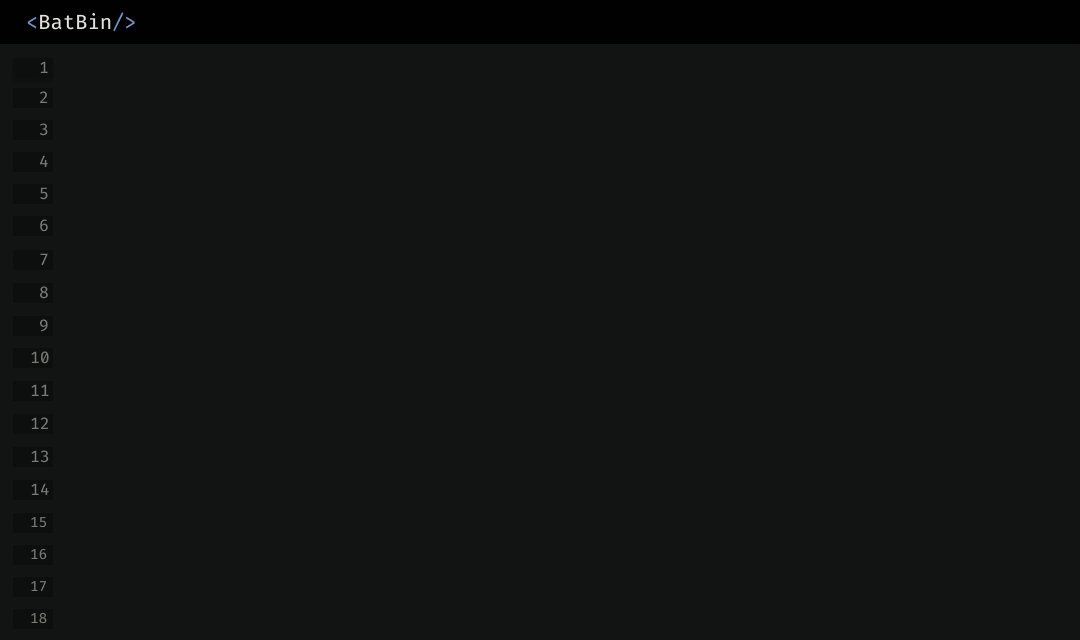
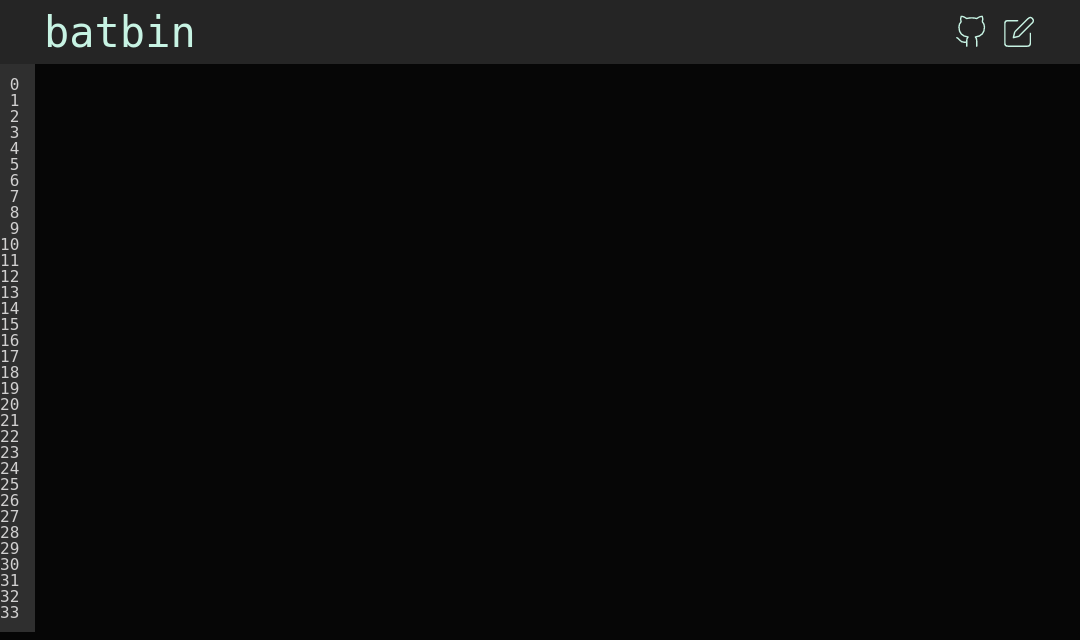
update editor.png for elm-frontend

Changed region(s): [[0.0, 0.0, 1.0, 1.0]]

diff --git a/src/syntax.rs b/src/syntax.rs
@@ -1,26 +1,34 @@
-use crate::{ipri, utils, app::AppState, consts::{MARGINS, FONT_SCALE}};
+use crate::{
+    app::AppState,
+    consts::{FONT_SCALE, MARGINS},
+    ipri, utils,
+};
+use image::Rgba;
 use syntect::easy::HighlightLines;
 use syntect::highlighting::Color;
-use image::Rgba;
 
 fn to_rgba8(color: &Color) -> Rgba<u8> {
     Rgba::<u8>([color.r, color.g, color.b, color.a])
 }
 
-pub fn render_preview(state: &AppState, src: &str, ext: Option<String>) -> Result<Vec<u8>, Box<dyn std::error::Error>> {
+pub fn render_preview(
+    state: &AppState,
+    src: &str,
+    ext: Option<String>,
+) -> Result<Vec<u8>, Box<dyn std::error::Error>> {
     let syntax = ext
         .map(|e| state.syntaxes.find_syntax_by_extension(&e))
         .flatten()
         .unwrap_or_else(|| &state.syntaxes.find_syntax_plain_text());
 
     let mut h = HighlightLines::new(syntax, &state.highlight_theme);
-    let lines = src.split_inclusive("\n").take(18);
+    let lines = src.split_inclusive("\n").take(33);
 
     let mut img2 = state.base_img.clone();
 
     for (i, line) in lines.enumerate() {
         let highlighted = h.highlight(&line, &state.syntaxes);
-        let mut w = 64;
+        let mut w = 40;
         for (style, chunk) in highlighted.iter() {
             let mut isspace = true; // whether the chunk is purely whitespace
             let mut sc = 0; // number of spaces in chunk
@@ -43,11 +51,19 @@ pub fn render_preview(state: &AppState, src: &str, ext: Option<String>) -> Resul
             }).collect();
 
             if isspace {
-                w += utils::space_width()*sc;
+                w += utils::space_width() * sc;
             } else {
-                w += ipri::draw_text_mut_w(&mut img2,  to_rgba8(&style.foreground), w, MARGINS[i], FONT_SCALE, &state.font, &c_string);
+                w += ipri::draw_text_mut_w(
+                    &mut img2,
+                    to_rgba8(&style.foreground),
+                    w,
+                    MARGINS[i],
+                    FONT_SCALE,
+                    &state.font,
+                    &c_string,
+                );
                 let trailing_spaces = c_s - cindx - 1;
-                w += utils::space_width()*trailing_spaces as i32; // rusttype doesn't handle trailing spaces :|
+                w += utils::space_width() * trailing_spaces as i32; // rusttype doesn't handle trailing spaces :|
             }
         }
     }

diff --git a/src/main.rs b/src/main.rs
@@ -8,8 +8,8 @@ mod utils;
 use rusttype::Font;
 use warp::Filter;
 
-use warp::http::header::{HeaderMap, HeaderValue};
 use std::env;
+use warp::http::header::{HeaderMap, HeaderValue};
 
 #[tokio::main]
 async fn main() {
@@ -23,10 +23,11 @@ async fn main() {
     png_header.insert("Content-type", HeaderValue::from_static("image/png"));
 
     let image = image::open(format!("{}/{}", arg, "editor.png"))
-                        .expect("ERR No template image found at provided path")
-                        .to_rgba8();
+        .expect("ERR No template image found at provided path")
+        .to_rgba8();
 
-    let font: Font<'static> = Font::try_from_bytes(include_bytes!("FiraCode-Retina.ttf") as &[u8]).unwrap();
+    let font: Font<'static> =
+        Font::try_from_bytes(include_bytes!("FiraCode-Retina.ttf") as &[u8]).unwrap();
 
     utils::init_state(arg, image, font);
 
@@ -34,16 +35,20 @@ async fn main() {
 
     let p = warp::path("p");
     let ap = utils::with_state()
-                        .and(warp::path::param())
-                        .and_then(handlers::root_handler);
+        .and(warp::path::param())
+        .and_then(handlers::root_handler);
 
     let pk = warp::path("pk");
     let apk = utils::with_state()
-                        .and(warp::path::param())
-                        .and(warp::path::param())
-                        .and_then(handlers::root_handler_known);
+        .and(warp::path::param())
+        .and(warp::path::param())
+        .and_then(handlers::root_handler_known);
 
-    warp::serve(p.and(ap).or(pk.and(apk)).with(warp::reply::with::headers(png_header)))
-        .run(([127, 0, 0, 1], 3030))
-        .await;
+    warp::serve(
+        p.and(ap)
+            .or(pk.and(apk))
+            .with(warp::reply::with::headers(png_header)),
+    )
+    .run(([127, 0, 0, 1], 3030))
+    .await;
 }

diff --git a/src/utils.rs b/src/utils.rs
@@ -1,33 +1,43 @@
 use crate::{app::AppState, consts};
-use std::ops::Deref;
-use image::{png::PngEncoder, ImageBuffer, Rgba, ImageError, Pixel};
+use image::{png::PngEncoder, ImageBuffer, ImageError, Pixel, Rgba};
 use once_cell::sync::OnceCell;
-use warp::Filter;
 use rusttype::{point, Font};
+use std::ops::Deref;
+use warp::Filter;
 
 static STATE: OnceCell<AppState> = OnceCell::new();
 static SPACE_WIDTH: OnceCell<i32> = OnceCell::new();
-
 
 // rusttype can't rasterize spaces :|
 fn init_space_width(font: &Font<'static>) {
     let offset = point(0.0, font.v_metrics(consts::FONT_SCALE).ascent);
     let layout = font.layout(" r", consts::FONT_SCALE, offset);
-    let r = font.glyph('r').scaled(consts::FONT_SCALE).positioned(offset).pixel_bounding_box().unwrap().max.x;
+    let r = font
+        .glyph('r')
+        .scaled(consts::FONT_SCALE)
+        .positioned(offset)
+        .pixel_bounding_box()
+        .unwrap()
+        .max
+        .x;
     let width = layout.last().unwrap().pixel_bounding_box().unwrap().max.x - r;
     SPACE_WIDTH.set(width).ok().expect("INVALID INIT STATE!!");
 }
 
 pub fn init_state(pastes: String, base_img: ImageBuffer<Rgba<u8>, Vec<u8>>, font: Font<'static>) {
     init_space_width(&font);
-    STATE.set(AppState::new(pastes, base_img, font)).ok().expect("INVALID INIT STATE!!");
+    STATE
+        .set(AppState::new(pastes, base_img, font))
+        .ok()
+        .expect("INVALID INIT STATE!!");
 }
 
 pub fn space_width() -> i32 {
     *SPACE_WIDTH.get().unwrap()
 }
 
-pub fn with_state() -> impl Filter<Extract = (&'static AppState,), Error = std::convert::Infallible> + Clone {
+pub fn with_state(
+) -> impl Filter<Extract = (&'static AppState,), Error = std::convert::Infallible> + Clone {
     warp::any().map(|| STATE.get().expect("AppState not initialized!!!"))
 }
 

diff --git a/src/handlers/mod.rs b/src/handlers/mod.rs
@@ -1,9 +1,12 @@
 use crate::{app::AppState, syntax};
-use tokio::task;
 use tokio::fs;
+use tokio::task;
 
-
-async fn get_preview(state: &'static AppState, uuid: String, ext: Option<String>) -> Result<impl warp::Reply, warp::Rejection> {
+async fn get_preview(
+    state: &'static AppState,
+    uuid: String,
+    ext: Option<String>,
+) -> Result<impl warp::Reply, warp::Rejection> {
     let f = format!("{}/{}", &state.pastes, uuid);
     let code = fs::read_to_string(f).await.map_err(|_| warp::reject())?;
 
@@ -14,16 +17,25 @@ async fn get_preview(state: &'static AppState, uuid: String, ext: Option<String>
             Err(warp::reject())
         } else {
             Ok(res.unwrap())
-        }
-    }).await.map_err(|_| warp::reject())?;
+        };
+    })
+    .await
+    .map_err(|_| warp::reject())?;
 
     return rendered;
 }
 
-pub async fn root_handler_known(state: &'static AppState, uuid: String, ext: String) -> Result<impl warp::Reply, warp::Rejection> {
+pub async fn root_handler_known(
+    state: &'static AppState,
+    uuid: String,
+    ext: String,
+) -> Result<impl warp::Reply, warp::Rejection> {
     get_preview(state, uuid, Some(ext)).await
 }
 
-pub async fn root_handler(state: &'static AppState, uuid: String) -> Result<impl warp::Reply, warp::Rejection> {
+pub async fn root_handler(
+    state: &'static AppState,
+    uuid: String,
+) -> Result<impl warp::Reply, warp::Rejection> {
     get_preview(state, uuid, None).await
 }

diff --git a/src/app.rs b/src/app.rs
@@ -1,10 +1,9 @@
-use rusttype::Font;
 use image::{ImageBuffer, Rgba};
-use syntect::parsing::SyntaxSet;
-use syntect::highlighting::{Theme, ThemeSet};
+use rusttype::Font;
 use std::path::Path;
-use syntect::dumps::{from_binary};
-
+use syntect::dumps::from_binary;
+use syntect::highlighting::{Theme, ThemeSet};
+use syntect::parsing::SyntaxSet;
 
 pub struct AppState {
     pub pastes: String,
@@ -15,14 +14,19 @@ pub struct AppState {
 }
 
 impl AppState {
-    pub fn new(pastes: String, base_img: ImageBuffer<Rgba<u8>, Vec<u8>>, font: Font<'static>) -> Self {
+    pub fn new(
+        pastes: String,
+        base_img: ImageBuffer<Rgba<u8>, Vec<u8>>,
+        font: Font<'static>,
+    ) -> Self {
         let theme_path = format!("{}/{}", &pastes, "TwoDark.tmTheme");
         Self {
             pastes,
             base_img,
             font,
             syntaxes: from_binary::<SyntaxSet>(include_bytes!("../assets/syntaxes.bin")),
-            highlight_theme: ThemeSet::get_theme(Path::new(&theme_path)).unwrap_or_else(|_| panic!("Couldn't load the TwoDark theme!"))
+            highlight_theme: ThemeSet::get_theme(Path::new(&theme_path))
+                .unwrap_or_else(|_| panic!("Couldn't load the TwoDark theme!")),
         }
     }
 }

diff --git a/src/consts.rs b/src/consts.rs
@@ -1,10 +1,8 @@
 use rusttype::Scale;
 
-pub const MARGINS: [i32; 18] = [
-/* 1    2    3    4    5    6    7    8    9  */
-   56,  87,  118, 150, 182, 214, 248, 281, 314,
-/* 10   11   12   13   14   15   16   17   18  */
-   346, 379, 412, 445, 478, 511, 544, 576, 607
+pub const MARGINS: [i32; 33] = [
+    75, 91, 107, 123, 139, 155, 171, 187, 203, 219, 235, 251, 267, 283, 299, 315, 331, 347, 363,
+    379, 395, 411, 427, 443, 459, 475, 491, 507, 523, 539, 555, 571, 587,
 ];
 
-pub const FONT_SCALE: Scale = Scale { x: 22., y: 22. };
+pub const FONT_SCALE: Scale = Scale { x: 16., y: 16. };

diff --git a/src/ipri.rs b/src/ipri.rs
@@ -1,10 +1,10 @@
-use rusttype::{point, Font, Scale};
-use std::cmp::max;
 use conv::ValueInto;
 use image::Pixel;
 use imageproc::definitions::Clamp;
 use imageproc::drawing::Canvas;
 use imageproc::pixelops::weighted_sum;
+use rusttype::{point, Font, Scale};
+use std::cmp::max;
 
 // custom draw_text forked from improc
 pub fn draw_text_mut_w<'a, C>(
@@ -15,7 +15,8 @@ pub fn draw_text_mut_w<'a, C>(
     scale: Scale,
     font: &'a Font<'a>,
     text: &'a str,
-) -> i32 where
+) -> i32
+where
     C: Canvas,
     <C::Pixel as Pixel>::Subpixel: ValueInto<f32> + Clamp<f32>,
 {
